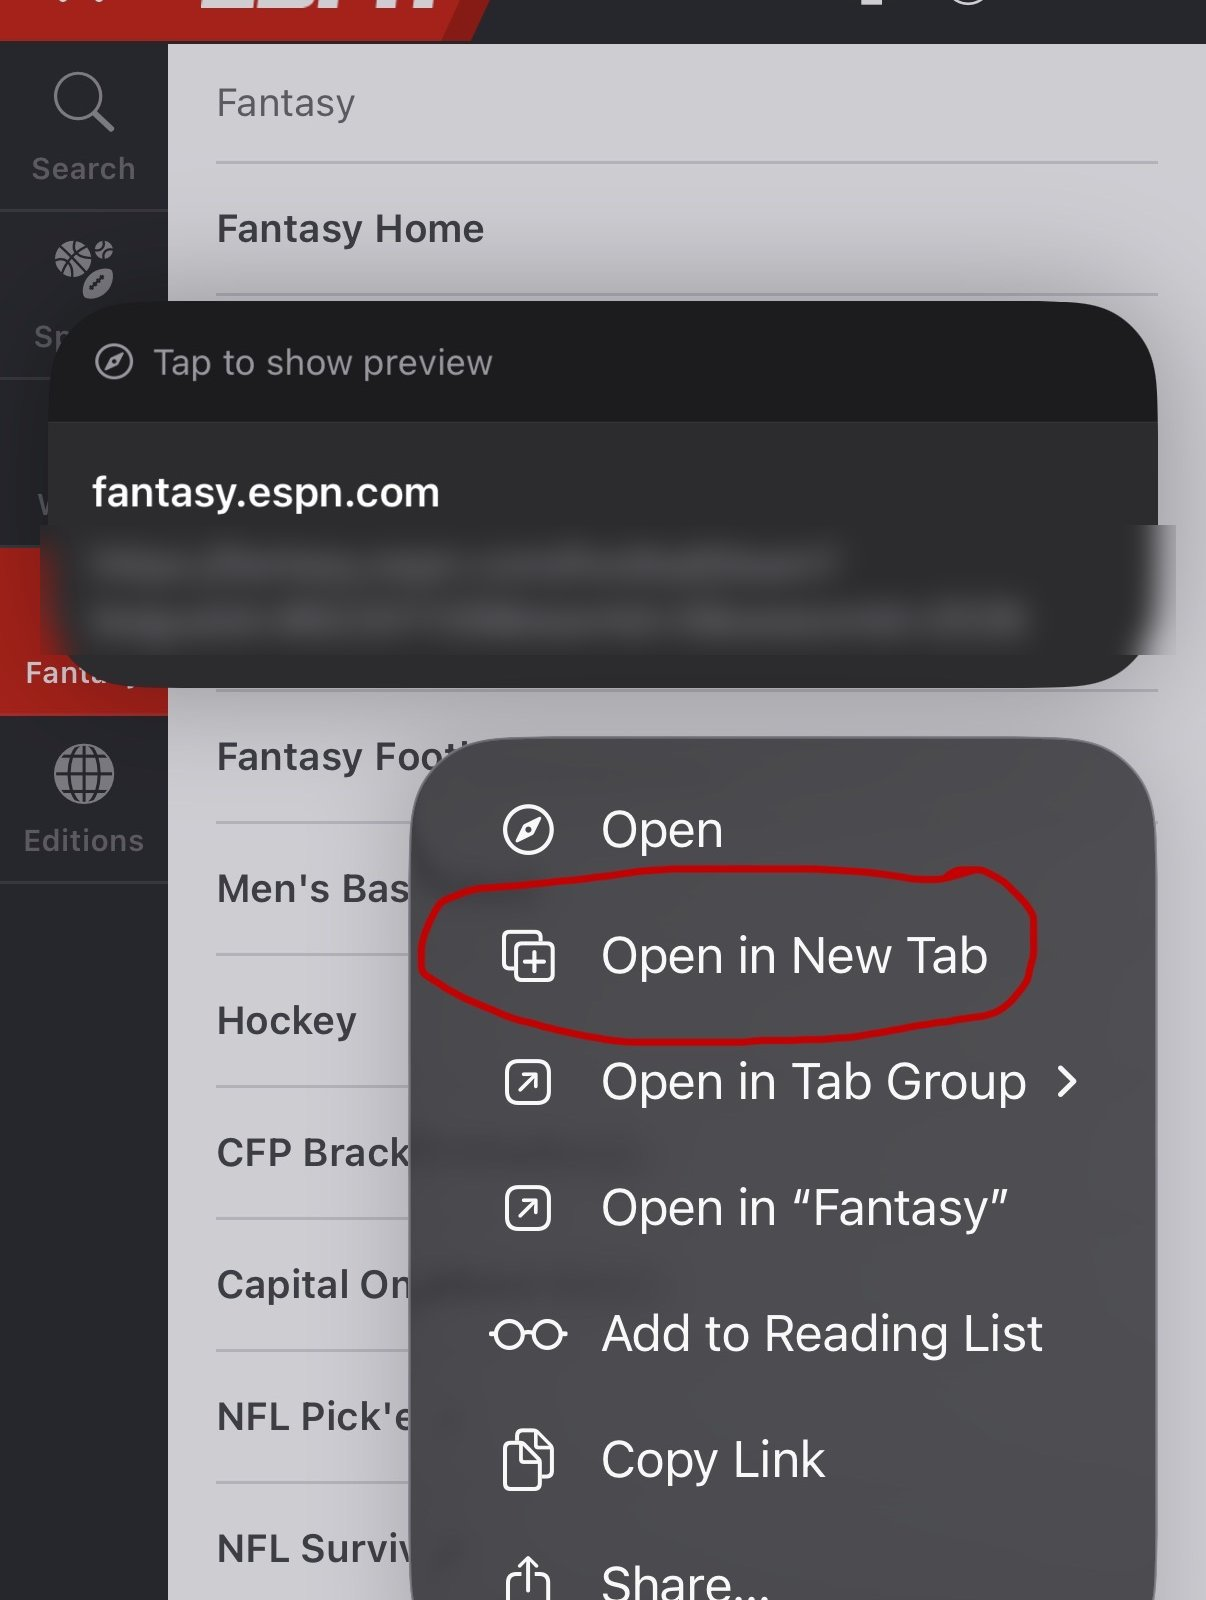
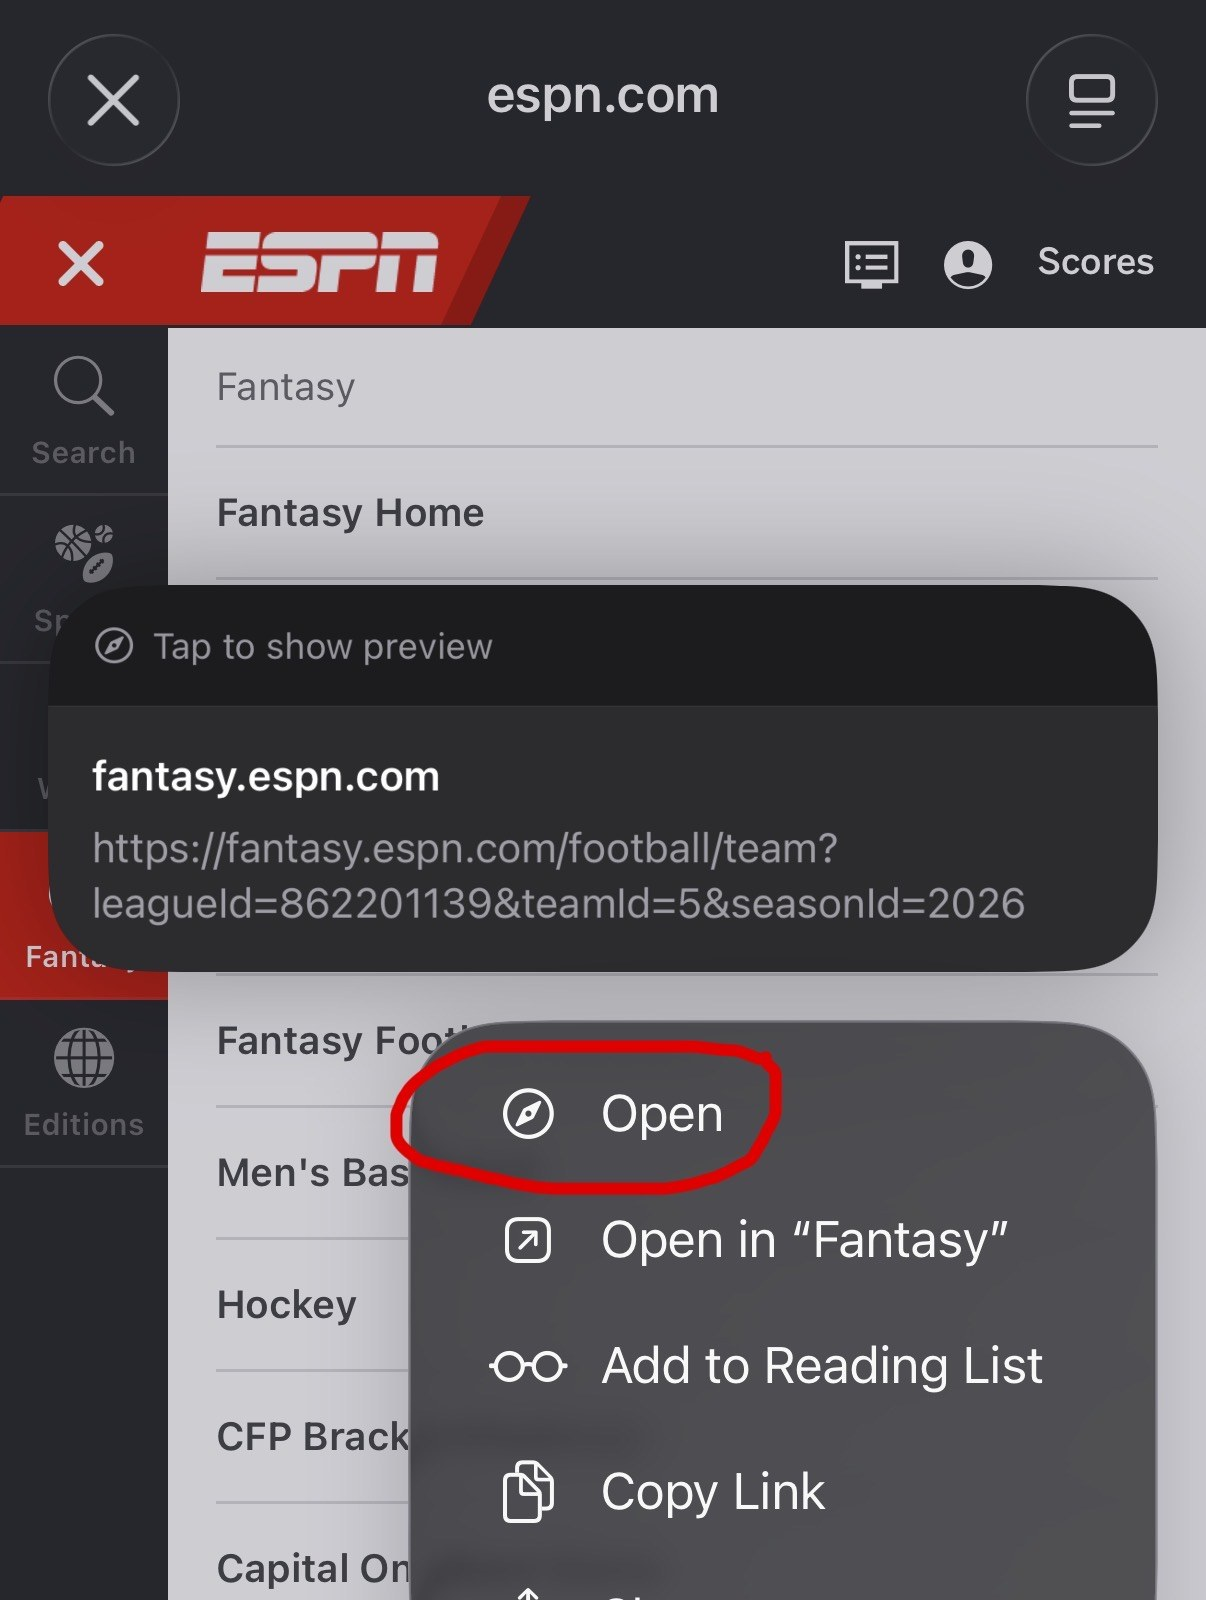
Fix the "don't open the ESPN app" help image and wording
The old screenshot and "tap Open in New Tab" instruction were stale --
inside the new in-app browser (opened by the "Open ESPN Fantasy" link
added last commit), the long-press menu actually shows "Open" vs
"Open in 'Fantasy'" (the native app), not "Open in New Tab". Replaced
the reference image with a real screenshot of that exact menu and
updated the instruction to say "choose Open -- not 'Open in Fantasy'".

Claude-Session: https://claude.ai/code/session_014xEcRJjSVNg6YgPmqK9dTv

diff --git a/build.py b/build.py
@@ -7819,7 +7819,7 @@ function trEspnModal(){
  var m=document.createElement('div'),yr=trEspnSeason();m.className='trModal';
  m.innerHTML='<div class="trModalB espnM"><b>Import your ESPN league</b><p class="espnSub">Choose the kind of league you have.</p><p class="espnBigWarn"><b>Use a normal (not private/incognito) browser tab or window for all of this.</b> Private browsing does not save anything, so your import will disappear and nothing here will work.</p>'
  +'<div class="espnTabs"><button type="button" class="on" data-k="priv">My league is private</button><button type="button" data-k="pub">My league is public</button></div>'
- +'<div class="espnP" data-k="priv"><div class="lgHow"><div class="espnBmBox"><p><b>On a computer &mdash; the easy way</b></p><ol><li>Drag this button up to your bookmarks bar: <a class="espnBm">ESPN &rarr; Fantasy Mania</a></li><li>On ESPN, open your league (make sure you are logged in) &mdash; any page of it.</li><li>Click the bookmark. Your whole league imports here on its own, with every team and ESPN&rsquo;s own week-by-week projections.</li></ol><p class="espnSm">The button runs on ESPN using the login you already have there, and sends back only your league data. Your ESPN email, password and login never reach Fantasy Mania.</p></div><p><b>Get your league data</b></p><ol class="espnSteps"><li>Log in to ESPN in your browser (not the ESPN app), then find your league under the <b>Fantasy</b> menu. <a class="espnPg" href="https://www.espn.com/fantasy/" target="_blank" rel="noopener">Open ESPN Fantasy &rsaquo;</a><img class="espnHelpImg onlyMobile" src="/img/espn-help/find-your-league.jpg" alt="ESPN Fantasy menu with your team listed"><p class="espnWarn onlyMobile">If a link opens the ESPN app instead of your browser: don&rsquo;t tap it. Go back, <b>press and hold</b> the link, then tap <b>Open in New Tab</b> &mdash; like this:</p><img class="espnHelpImg onlyMobile" src="/img/espn-help/open-in-new-tab.jpg" alt="Press and hold a link, then tap Open in New Tab"></li></ol><div class="espnOS onlyMobile"><button type="button" class="on" data-way="easy">Easy way</button><button type="button" data-way="adv">Advanced way</button></div><p class="espnSm espnAdvNote onlyMobile">The <b>Advanced way</b> unlocks more for your team: very accurate playoff odds and chances, plus schedule strength &mdash; and we\'re adding more.</p><div class="espnWay" data-way="easy"><ol class="espnSteps"><li>Go to <b>League &rsaquo; Rosters</b>.<img class="espnHelpImg" src="/img/espn-help/league-rosters.jpg" alt="League menu with Rosters highlighted"></li><li>Tap and hold anywhere on the page, tap <b>Select All</b>, then <b>Copy</b>.<img class="espnHelpImg" src="/img/espn-help/select-all-copy.jpg" alt="Copy button after selecting all the page text"></li><li>Paste it in the box below, then tap Import league.</li></ol><p class="espnSm">Fewer steps, but less detail than the Advanced way below.</p></div><div class="espnWay" data-way="adv" hidden><ol class="espnSteps"><li>Copy your league\'s web address and paste it here. Just the number after <b>leagueId=</b> works too.<input class="espnPhId" placeholder="League web address or league ID" autocapitalize="off" autocorrect="off"></li><li>Tap <a class="espnPhGo" target="_blank" rel="noopener">Open my league data</a>. A page of data opens.<img class="espnHelpImg onlyMobile" src="/img/espn-help/league-data-share.jpg" alt="Raw league data page with the Share icon circled"></li><li class="onlyMobile">Tap <b>Share</b> (the box with an up arrow) &rarr; <b>Options</b> &rarr; <b>PDF</b>. Make sure <b>PDF</b> is checked &mdash; not Automatic or Reader PDF.<img class="espnHelpImg" src="/img/espn-help/share-options.jpg" alt="Share sheet Options screen with PDF selected"></li><li class="onlyMobile">Tap <b>Save to Files</b>.<img class="espnHelpImg" src="/img/espn-help/save-to-files.jpg" alt="Share sheet with Save to Files highlighted"></li><li class="onlyMobile">Come back here, tap Choose File below and pick the PDF you just saved, then tap Import league.<input type="file" class="espnPhFile"></li><li class="onlyDesktop">Select all (Ctrl+A, or Cmd+A on a Mac) and copy it (Ctrl+C or Cmd+C).</li><li class="onlyDesktop">Paste it in the box below, then click Import league.</li></ol></div><p class="lgKeep">Your ESPN login stays with ESPN. Fantasy Mania only reads the file or text you give it.</p><p class="lgKeep">Your league is saved on this device only. Add Fantasy Mania to your Home Screen and do not use a private tab, or your browser will forget it. Import again any time to refresh rosters.</p></div><textarea class="trImpT espnPasteRoster" rows="5" placeholder="Paste the whole Rosters page, or your league data from the phone steps"></textarea><p class="trImpE espnErrPriv"></p><button type="button" class="trAsk espnPasteGo">Import league</button></div>'
+ +'<div class="espnP" data-k="priv"><div class="lgHow"><div class="espnBmBox"><p><b>On a computer &mdash; the easy way</b></p><ol><li>Drag this button up to your bookmarks bar: <a class="espnBm">ESPN &rarr; Fantasy Mania</a></li><li>On ESPN, open your league (make sure you are logged in) &mdash; any page of it.</li><li>Click the bookmark. Your whole league imports here on its own, with every team and ESPN&rsquo;s own week-by-week projections.</li></ol><p class="espnSm">The button runs on ESPN using the login you already have there, and sends back only your league data. Your ESPN email, password and login never reach Fantasy Mania.</p></div><p><b>Get your league data</b></p><ol class="espnSteps"><li>Log in to ESPN in your browser (not the ESPN app), then find your league under the <b>Fantasy</b> menu. <a class="espnPg" href="https://www.espn.com/fantasy/" target="_blank" rel="noopener">Open ESPN Fantasy &rsaquo;</a><img class="espnHelpImg onlyMobile" src="/img/espn-help/find-your-league.jpg" alt="ESPN Fantasy menu with your team listed"><p class="espnWarn onlyMobile">If a link opens the ESPN app instead of staying here: don&rsquo;t tap it. Go back, <b>press and hold</b> the link, and choose <b>Open</b> &mdash; not &ldquo;Open in &lsquo;Fantasy&rsquo;&rdquo;, like this:</p><img class="espnHelpImg onlyMobile" src="/img/espn-help/open-in-new-tab.jpg" alt="Press and hold a link and choose Open, not Open in the ESPN app"></li></ol><div class="espnOS onlyMobile"><button type="button" class="on" data-way="easy">Easy way</button><button type="button" data-way="adv">Advanced way</button></div><p class="espnSm espnAdvNote onlyMobile">The <b>Advanced way</b> unlocks more for your team: very accurate playoff odds and chances, plus schedule strength &mdash; and we\'re adding more.</p><div class="espnWay" data-way="easy"><ol class="espnSteps"><li>Go to <b>League &rsaquo; Rosters</b>.<img class="espnHelpImg" src="/img/espn-help/league-rosters.jpg" alt="League menu with Rosters highlighted"></li><li>Tap and hold anywhere on the page, tap <b>Select All</b>, then <b>Copy</b>.<img class="espnHelpImg" src="/img/espn-help/select-all-copy.jpg" alt="Copy button after selecting all the page text"></li><li>Paste it in the box below, then tap Import league.</li></ol><p class="espnSm">Fewer steps, but less detail than the Advanced way below.</p></div><div class="espnWay" data-way="adv" hidden><ol class="espnSteps"><li>Copy your league\'s web address and paste it here. Just the number after <b>leagueId=</b> works too.<input class="espnPhId" placeholder="League web address or league ID" autocapitalize="off" autocorrect="off"></li><li>Tap <a class="espnPhGo" target="_blank" rel="noopener">Open my league data</a>. A page of data opens.<img class="espnHelpImg onlyMobile" src="/img/espn-help/league-data-share.jpg" alt="Raw league data page with the Share icon circled"></li><li class="onlyMobile">Tap <b>Share</b> (the box with an up arrow) &rarr; <b>Options</b> &rarr; <b>PDF</b>. Make sure <b>PDF</b> is checked &mdash; not Automatic or Reader PDF.<img class="espnHelpImg" src="/img/espn-help/share-options.jpg" alt="Share sheet Options screen with PDF selected"></li><li class="onlyMobile">Tap <b>Save to Files</b>.<img class="espnHelpImg" src="/img/espn-help/save-to-files.jpg" alt="Share sheet with Save to Files highlighted"></li><li class="onlyMobile">Come back here, tap Choose File below and pick the PDF you just saved, then tap Import league.<input type="file" class="espnPhFile"></li><li class="onlyDesktop">Select all (Ctrl+A, or Cmd+A on a Mac) and copy it (Ctrl+C or Cmd+C).</li><li class="onlyDesktop">Paste it in the box below, then click Import league.</li></ol></div><p class="lgKeep">Your ESPN login stays with ESPN. Fantasy Mania only reads the file or text you give it.</p><p class="lgKeep">Your league is saved on this device only. Add Fantasy Mania to your Home Screen and do not use a private tab, or your browser will forget it. Import again any time to refresh rosters.</p></div><textarea class="trImpT espnPasteRoster" rows="5" placeholder="Paste the whole Rosters page, or your league data from the phone steps"></textarea><p class="trImpE espnErrPriv"></p><button type="button" class="trAsk espnPasteGo">Import league</button></div>'
  +'<div class="espnP" data-k="pub" hidden><p>Since your league is public, there\'s nothing to sign into. Just enter the league ID — it\'s the number after <b>leagueId=</b> in your ESPN league\'s web address.</p><input class="espnId" inputmode="numeric" placeholder="League ID, like 2073417915"><label class="espnYr">Season <input class="espnY" inputmode="numeric" value="'+yr+'"></label><button type="button" class="trAsk espnGo" data-k="pub">Import league</button><p class="trImpE espnErr"></p></div>'
  +'</div>';
  m.onclick=function(e){if(e.target===m)m.remove()};
